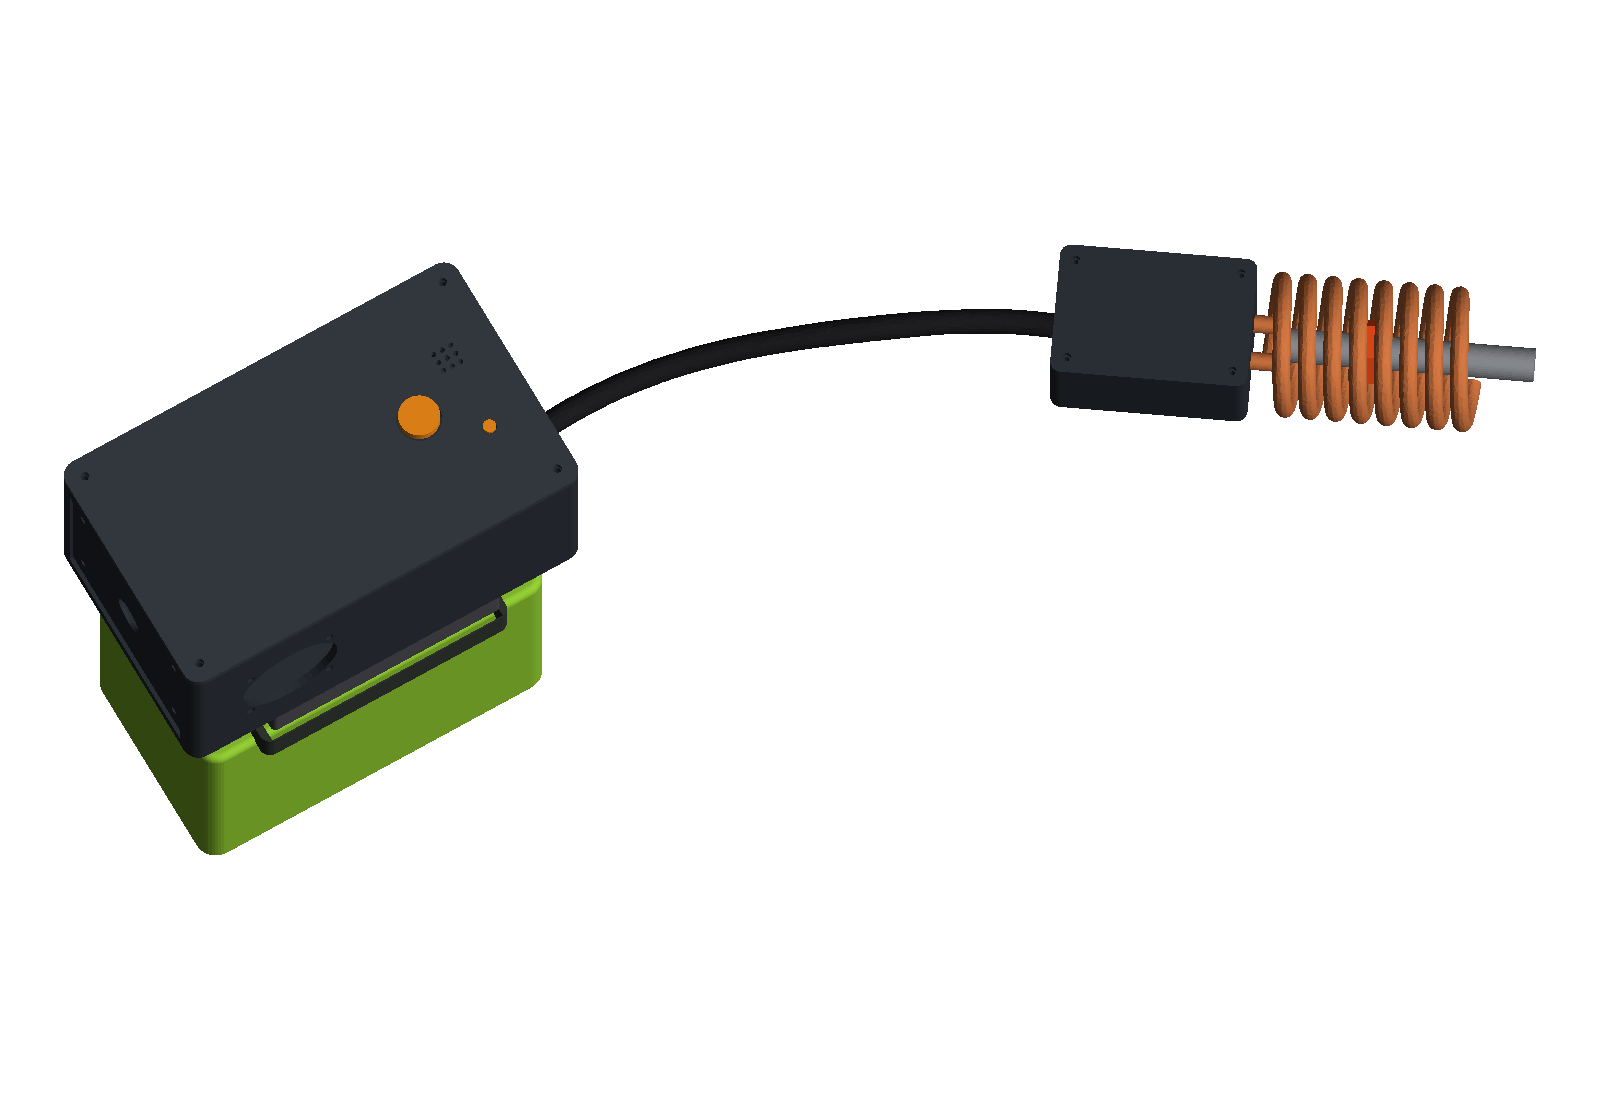
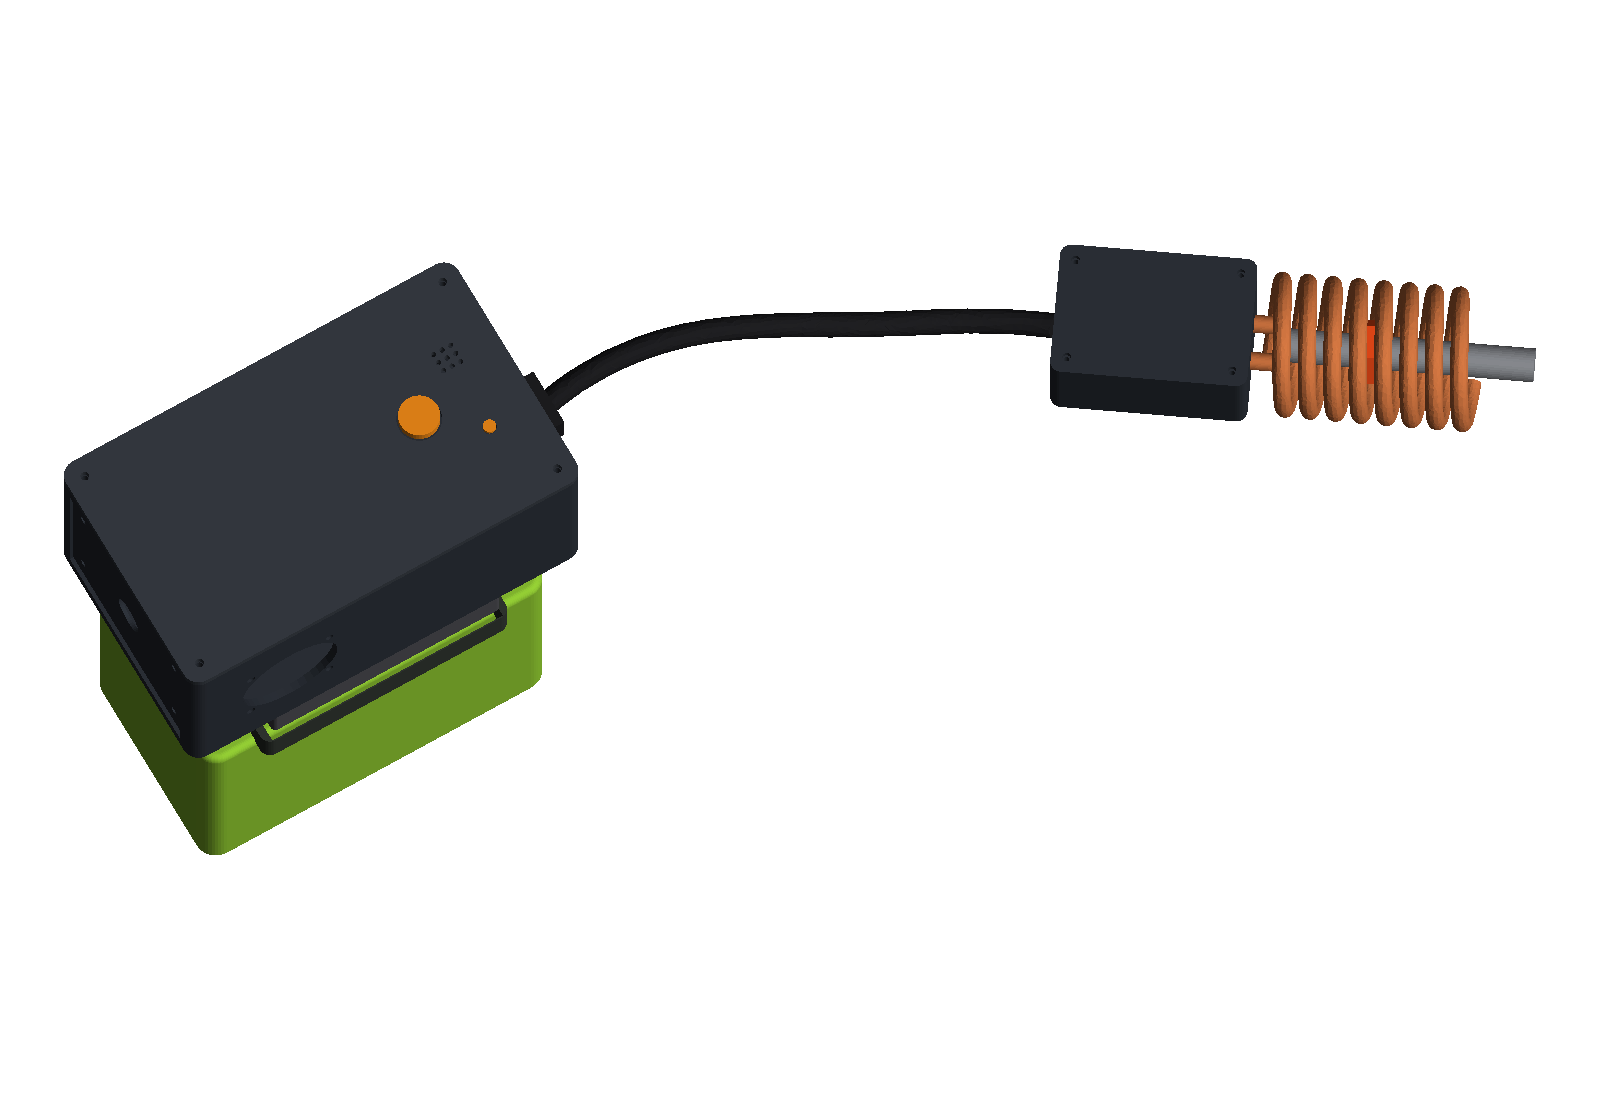
Move XT90 to the top of the front face, clear of the hand; re-render
Claude-Session: https://claude.ai/code/session_01NxM5UjbDay4MzUmrHQKbdG

Changed region(s): [[0.3125, 0.2782, 0.5625, 0.4018]]

diff --git a/cad/render_mockup.py b/cad/render_mockup.py
@@ -95,10 +95,11 @@ def build_scene():
     ca, sa = math.cos(math.radians(ang)), math.sin(math.radians(ang))
     head_back = (x0 + 175, -70, 40)  # world position of the head's back-face centre
     # last control point approaches the back face along the head axis
-    lead_pts = [(x0, -12, H / 2), (x0 + 60, -16, H / 2 - 2), (x0 + 120, -40, 42),
+    xz = H - b["wall"] - 12          # XT90 height on the front face (matches build_cad)
+    lead_pts = [(x0, -12, xz), (x0 + 60, -16, xz + 2), (x0 + 120, -40, 46),
                 (head_back[0] - 20 * ca, head_back[1] - 20 * sa, head_back[2]), head_back]
     parts.append((tube_along(lead_pts, 4.5), C_LEAD))
-    xt = cq.Workplane("YZ").workplane(offset=L / 2).center(-12, H / 2).rect(22, 13).extrude(6)
+    xt = cq.Workplane("YZ").workplane(offset=L / 2).center(-12, xz).rect(22, 13).extrude(6)
     parts.append((xt, C_LEAD))
 
     # ---- head: shell + lid, rotated so its +X (coil side) points along the lead direction

diff --git a/cad/build_cad.py b/cad/build_cad.py
@@ -151,11 +151,12 @@ def build_body():
         slots = slots.moveTo(x, H / 2).rect(hs["slot_w"], hs["slot_h"])
     part = part.cut(slots.extrude(-(wall + 2)))
 
-    # --- front face (+X): XT90 + JST
+    # --- front face (+X): XT90 high on the face (clear of the hand), JST mid
     f = front
-    xt = (cq.Workplane("YZ").workplane(offset=L / 2 - wall - 1).center(-12, H / 2)
+    xt_z = H - wall - 12
+    xt = (cq.Workplane("YZ").workplane(offset=L / 2 - wall - 1).center(-12, xt_z)
           .rect(f["xt90_w"], f["xt90_h"]).extrude(wall + 2))
-    xts = (cq.Workplane("YZ").workplane(offset=L / 2 - wall - 1).center(-12, H / 2)
+    xts = (cq.Workplane("YZ").workplane(offset=L / 2 - wall - 1).center(-12, xt_z)
            .pushPoints([(-f["xt90_screw"] / 2, 0), (f["xt90_screw"] / 2, 0)])
            .circle(f["xt90_screw_d"] / 2).extrude(wall + 2))
     jst = (cq.Workplane("YZ").workplane(offset=L / 2 - wall - 1).center(22, H / 2)
